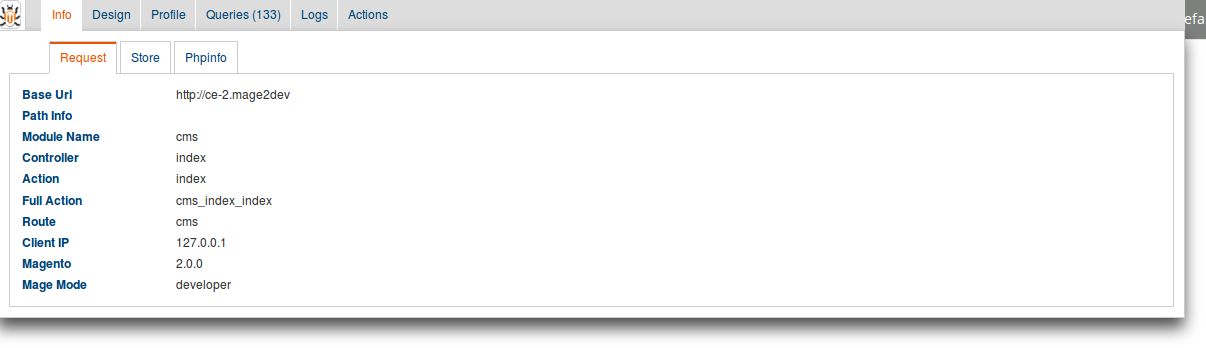
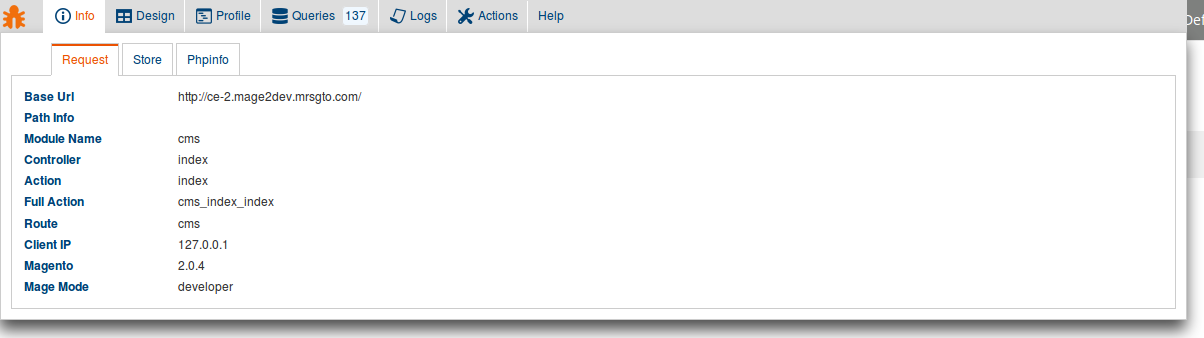
UI improvement

Changed region(s): [[0.0, 0.0, 1.0, 1.0], [0.1229, 0.3846, 0.2458, 0.8876]]

diff --git a/view/base/web/css/quickdevbar.css b/view/base/web/css/quickdevbar.css
@@ -2,7 +2,7 @@
   *  Toolbar global style
   * ---------------
   */
-#qdb-bar, #qdb-bar-anchor {
+#qdb-bar {
     position: fixed;
     left: 0px;
     top: 0px;
@@ -17,8 +17,10 @@
 }
 
 #qdb-bar-anchor {
-     height: 30px;
-     border: 1px solid #ccc;
+    left: 2px;
+    position: fixed;
+    top: 5px;
+    z-index: 10001;
 }
 
 #qdb-bar  * {
@@ -29,11 +31,6 @@
 #qdb-bar  input {
   width: auto;
 }
-
-#qdb-bar-anchor {
-    background: none repeat scroll 0 0 #fff;
-}
-
 
 /**
   * Button
@@ -113,6 +110,19 @@ div.qdb-ui-tabs > ul > li, div.qdb-ui-subtabs > ul > li {
     margin-bottom:0px;
 }
 
+li .qdb-tab-badge {
+    background-color: #f0f8ff;
+    border: 1px solid #ddd;
+    border-radius: 4px;
+    margin-left: 4px;
+    padding: 1px 2px;
+}
+
+li img.qdb-img {
+    padding: 1px;
+    vertical-align: bottom;
+}
+
 div.qdb-ui-tabs > ul > li {
     border-left: 1px solid white;
     margin-left: -2px;
@@ -128,6 +138,13 @@ div.qdb-ui-tabs li.ui-tabs-active, div.qdb-ui-subtabs li.ui-tabs-active {
     z-index: 100;
     border-bottom: 1px solid #fff;
 }
+
+li.ui-tabs-active .qdb-tab-badge {
+    background: #fff none repeat scroll 0 0;
+    border: 1px solid #eb5202;
+    color: #004276;
+}
+
 
 div.qdb-ui-tabs > ul a, div.qdb-ui-subtabs > ul a  {
     text-decoration: none;

diff --git a/view/base/web/js/quickdevbar.js b/view/base/web/js/quickdevbar.js
@@ -65,6 +65,27 @@ define(["jquery",
                     }
                 }
             });
-        }
+        },
+        
+        /**
+         * https://wiki.eclipse.org/Eclipse_Web_Interface
+         */
+        callJsEclipseSocEWI: function(file, line)
+        {
+            var url= 'http://localhost:34567/?command=org.eclipse.soc.ewi.examples.commands.openfile&path='+file+'&line='+line;
+            try
+            {
+              var xhr_object = (window.XMLHttpRequest) ? new XMLHttpRequest() : new ActiveXObject("Microsoft.XMLHTTP");
+              xhr_object.open("post", url, false);
+              xhr_object.send();
+            }
+            catch(e)
+            {
+              //uncaught exception: Component returned failure code: 0x80004005 (NS_ERROR_FAILURE) [nsIXMLHttpRequest.send]
+              //console.log(e);
+              if( e.name!='NS_ERROR_FAILURE' && e.result!=2147500037)
+                window.location = url;
+            }
+        }        
     });
 });

diff --git a/Helper/Register.php b/Helper/Register.php
@@ -14,6 +14,9 @@ class Register extends \Magento\Framework\App\Helper\AbstractHelper
 
     protected $_models;
 
+    protected $_blocks;
+
+
     public function addObserver($observerConfig, $wrapper)
     {
         $data = $observerConfig;
@@ -55,6 +58,10 @@ class Register extends \Magento\Framework\App\Helper\AbstractHelper
                 $this->addModel($data['object']);
                 break;
 
+            case 'core_layout_block_create_after':
+                $this->addBlock($data['block']);
+                break;
+
             default:
                 break;
 
@@ -70,7 +77,7 @@ class Register extends \Magento\Framework\App\Helper\AbstractHelper
     {
         $class = get_class($collection);
         if (empty($this->_collections[$class])) {
-            $this->_collections[$class] = ['name'=>$class, 'nbr'=>0];
+            $this->_collections[$class] = ['class'=>$class, 'nbr'=>0];
         }
         $this->_collections[$class]['nbr']++;
     }
@@ -85,7 +92,7 @@ class Register extends \Magento\Framework\App\Helper\AbstractHelper
     {
         $class = get_class($model);
         if (empty($this->_models[$class])) {
-            $this->_models[$class] = ['name'=>$class, 'nbr'=>0];
+            $this->_models[$class] = ['class'=>$class, 'nbr'=>0];
         }
         $this->_models[$class]['nbr']++;
     }
@@ -93,6 +100,24 @@ class Register extends \Magento\Framework\App\Helper\AbstractHelper
     public function getModels()
     {
         return $this->_models;
+    }
+
+
+
+    public function addBlock($block)
+    {
+        $class = get_class($block);
+        if (empty($this->_blocks[$class])) {
+//             $reflection = new \ReflectionClass($block);
+//             $this->_blocks[$class] = ['class'=>$class, 'file'=>$reflection->getFileName() ,  'nbr'=>0];
+            $this->_blocks[$class] = ['class'=>$class, 'nbr'=>0];
+        }
+        $this->_blocks[$class]['nbr']++;
+    }
+
+    public function getBlocks()
+    {
+        return $this->_blocks;
     }
 
 }

diff --git a/Block/Tab/Content/Block.php b/Block/Tab/Content/Block.php
@@ -4,7 +4,7 @@ namespace ADM\QuickDevBar\Block\Tab\Content;
 
 use \ADM\QuickDevBar\Block\Tab;
 
-class Collection extends \ADM\QuickDevBar\Block\Tab\DefaultContent
+class Block extends \ADM\QuickDevBar\Block\Tab\DefaultContent
 {
     /**
      *
@@ -24,13 +24,13 @@ class Collection extends \ADM\QuickDevBar\Block\Tab\DefaultContent
 
     public function getTitleBadge()
     {
-        $collections = $this->getCollections();
-        return count($collections);
+        $blocks = $this->getBlocks();
+        return count($blocks);
     }
 
 
-    public function getCollections()
+    public function getBlocks()
     {
-        return $this->_qdbHelperRegister->getCollections();
+        return $this->_qdbHelperRegister->getBlocks();
     }
 }

diff --git a/Block/Tab/Content/Sql.php b/Block/Tab/Content/Sql.php
@@ -24,15 +24,13 @@ class Sql extends \ADM\QuickDevBar\Block\Tab\DefaultContent
         parent::__construct($context, $data);
     }
 
-
-    public function getTitle()
+    public function getTitleBadge()
     {
-        $title = 'Queries';
         if ($this->getSqlProfiler()) {
-            $title .= ' (' . $this->getSqlProfiler()->getTotalNumQueries() . ')';
+            return $this->getSqlProfiler()->getTotalNumQueries();
+        } else {
+            return false;
         }
-
-        return $title;
     }
 
     public function getSqlProfiler()

diff --git a/Block/Tab/Content/Observer.php b/Block/Tab/Content/Observer.php
@@ -20,10 +20,10 @@ class Observer extends \ADM\QuickDevBar\Block\Tab\DefaultContent
         parent::__construct($context, $data);
     }
 
-    public function getTitle()
+    public function getTitleBadge()
     {
         $observers = $this->getObservers();
-        return 'Observers (' . count($observers) . ')';
+        return count($observers);
     }
 
     public function getObservers()

diff --git a/Block/Tab/DefaultContent.php b/Block/Tab/DefaultContent.php
@@ -10,6 +10,11 @@ class DefaultContent extends \Magento\Framework\View\Element\Template
         return ($this->getData('title')) ? $this->getData('title') : $this->getNameInLayout();
     }
 
+    public function getTitleBadge()
+    {
+        return false;
+    }
+
     public function getId()
     {
         return ($this->getData('id')) ? $this->getData('id') : $this->getNameInLayout();

diff --git a/Block/Tab/Content/Event.php b/Block/Tab/Content/Event.php
@@ -22,10 +22,10 @@ class Event extends \ADM\QuickDevBar\Block\Tab\DefaultContent
         parent::__construct($context, $data);
     }
 
-    public function getTitle()
+    public function getTitleBadge()
     {
         $events = $this->getEvents();
-        return 'Events (' . count($events) . ')';
+        return count($events);
     }
 
 

diff --git a/Block/Tab/Content/Model.php b/Block/Tab/Content/Model.php
@@ -22,10 +22,10 @@ class Model extends \ADM\QuickDevBar\Block\Tab\DefaultContent
         parent::__construct($context, $data);
     }
 
-    public function getTitle()
+    public function getTitleBadge()
     {
         $models = $this->getModels();
-        return 'Models (' . count($models) . ')';
+        return count($models);
     }
 
 

diff --git a/Model/Plugin/Event/Manager.php b/Model/Plugin/Event/Manager.php
@@ -30,7 +30,6 @@ class Manager
      * @param string $eventName
      * @param array $data
      */
-    //public function beforeDispatch($interceptor, $eventName, $data)
     public function beforeDispatch($interceptor, $eventName, $data=[])
     {
         $this->_qdbHelperRegister->addEvent($eventName, $data);

diff --git a/Block/Tab/Content/Log.php b/Block/Tab/Content/Log.php
@@ -27,13 +27,6 @@ class Log extends \ADM\QuickDevBar\Block\Tab\DefaultContent
         parent::__construct($context, $data);
     }
 
-
-
-    public function getTitle()
-    {
-        return 'Logs';
-    }
-
     public function getTailLines()
     {
         return 20;

diff --git a/README.md b/README.md
@@ -74,7 +74,17 @@ php bin/magento setup:db-data:upgrade
 php bin/magento cache:flush
 ```
 
+## Setup
+
+The toolbar is displayed by default if your web server is on your local development environment with the standard IPv4 address: 127.0.0.1. If not you can specify your IP on define an part of your http header in the config.   
+
+
 # Changelog
+
+0.1.6
+* UI improvement
+* Add Block subtab
+* Add icon from [iconsdb.com](http://www.iconsdb.com/)
 
 0.1.5.2
 * Fit to PHP coding standards
